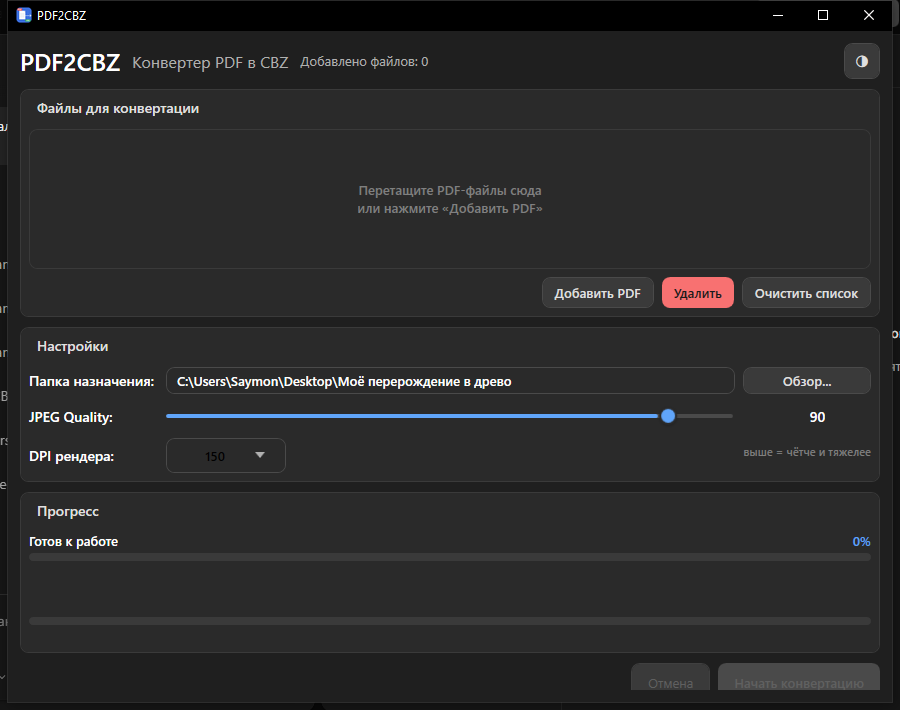
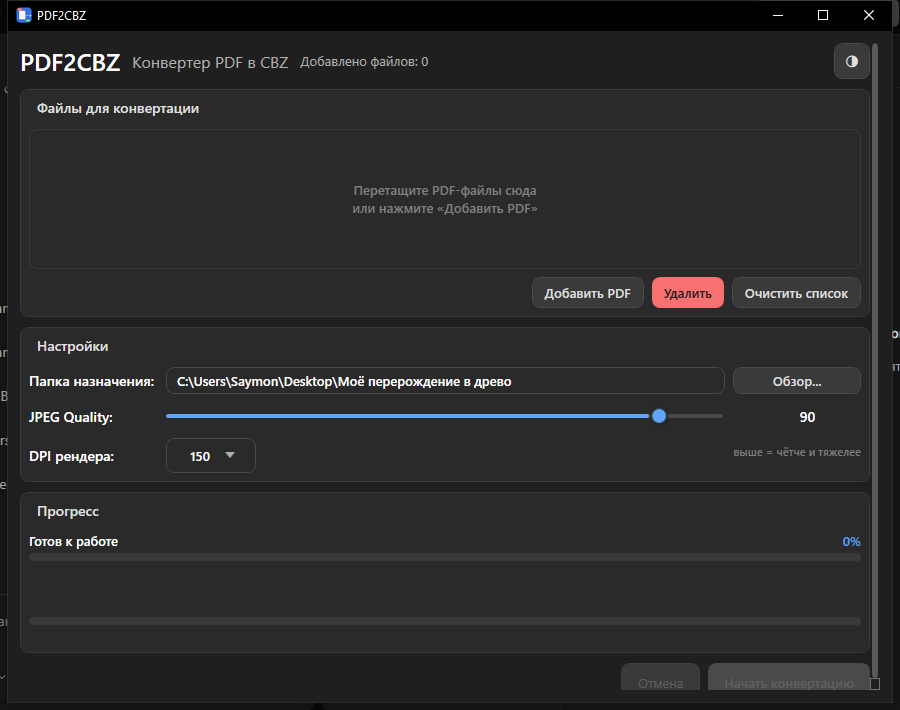
Контент в ScrollViewer: кнопки недостижимыми не бывают

diff --git a/PDF2CBZ/MainWindow.xaml b/PDF2CBZ/MainWindow.xaml
@@ -14,7 +14,8 @@
         Foreground="{DynamicResource TextPrimaryBrush}"
         AllowDrop="True" Drop="Window_Drop">
     
-    <Grid Margin="12">
+    <ScrollViewer Margin="12,12,12,12" VerticalScrollBarVisibility="Auto" HorizontalScrollBarVisibility="Disabled">
+    <Grid>
         <Grid.RowDefinitions>
             <RowDefinition Height="Auto"/>
             <!-- Список фиксированной высоты: не тянется за окном -->
@@ -287,4 +288,5 @@
                     Click="Start_Click" Padding="{StaticResource LargeControlPadding}" IsEnabled="False"/>
         </StackPanel>
     </Grid>
+    </ScrollViewer>
 </controls:CustomWindow>
